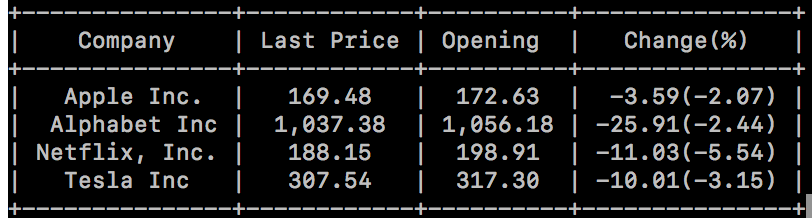
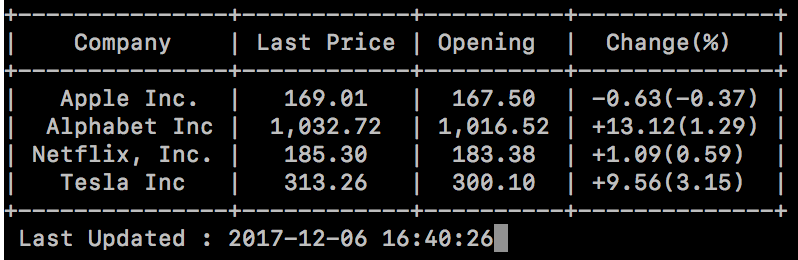
Updating snapshot and README about the Snapshot Last Updated Feature

diff --git a/README.md b/README.md
@@ -13,7 +13,7 @@ Show tabular stock data pulled from google finance
 
     Press F1 to quit the window
 # Example
-    stockshow python stockshow.py -l AAPL GOOGL NFLX TSLA
+    python stockshow.py -l AAPL GOOGL NFLX TSLA
 
 ![alt text](https://github.com/yahskakn/stockshow/blob/master/output.png)
 
@@ -23,3 +23,8 @@ Show tabular stock data pulled from google finance
     but if you want to try ALPHA Vantage change the source global var to 'ALPHA' and also get an api key from https://www.alphavantage.co/support/#api-key
     Also changing the sleep time to 1.7 seconds to see if google is okay with that refresh rate and also to abide by alpha vantage's limit of requests
 
+# Snapshot
+When I run the script and if I am requesting a lot of companies' stock details, I am presented with a blank screen until all that data is fetched.
+Instead I now save the data fetched in previous run (the last update helps here) and refresh data once I get it.
+The problem though is that the previous run could've been for a different company and if I request for a different company this time, the output is confusing.
+Caching a local copy of all previously searched companies is nice, but won't scale well. What's a good solution here?
